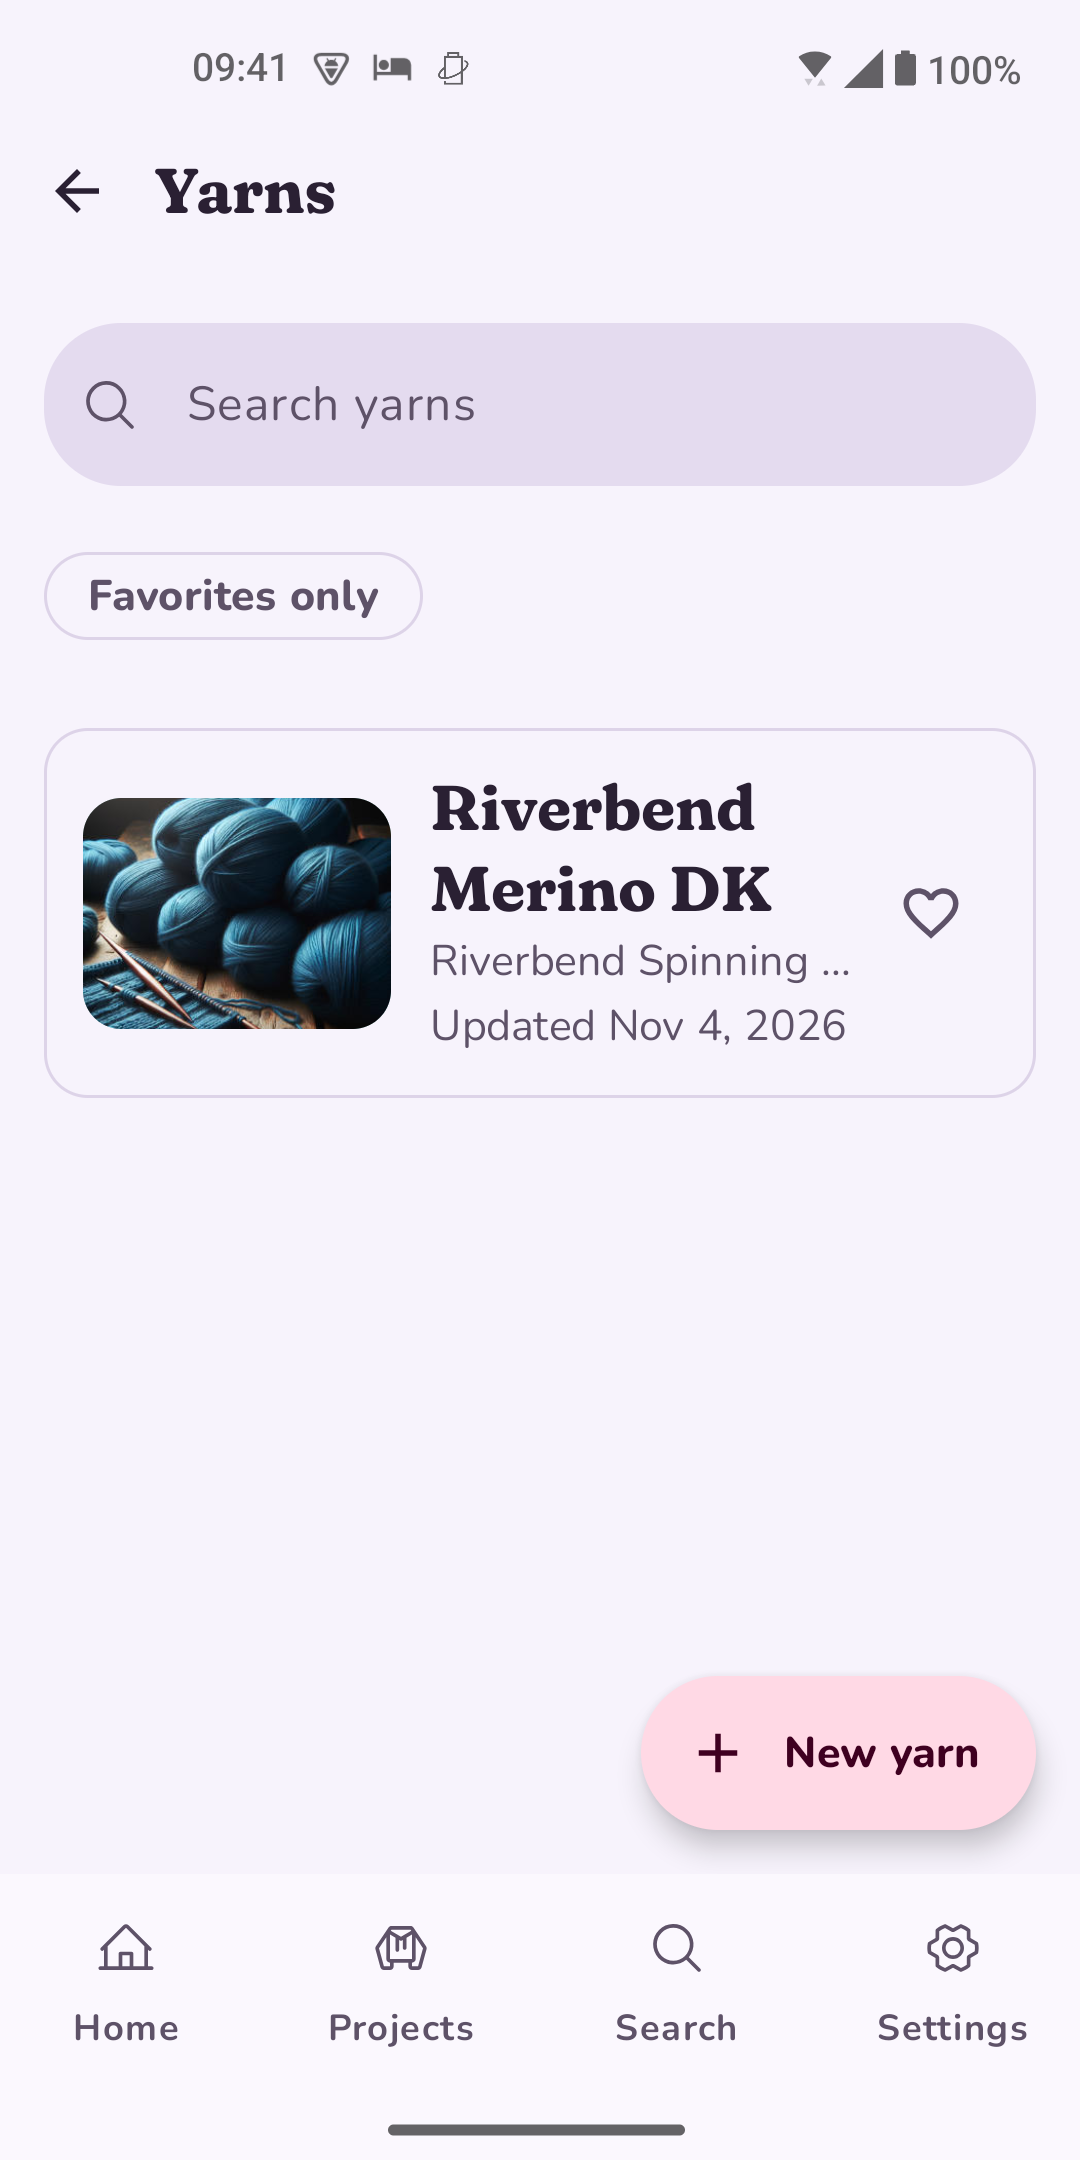
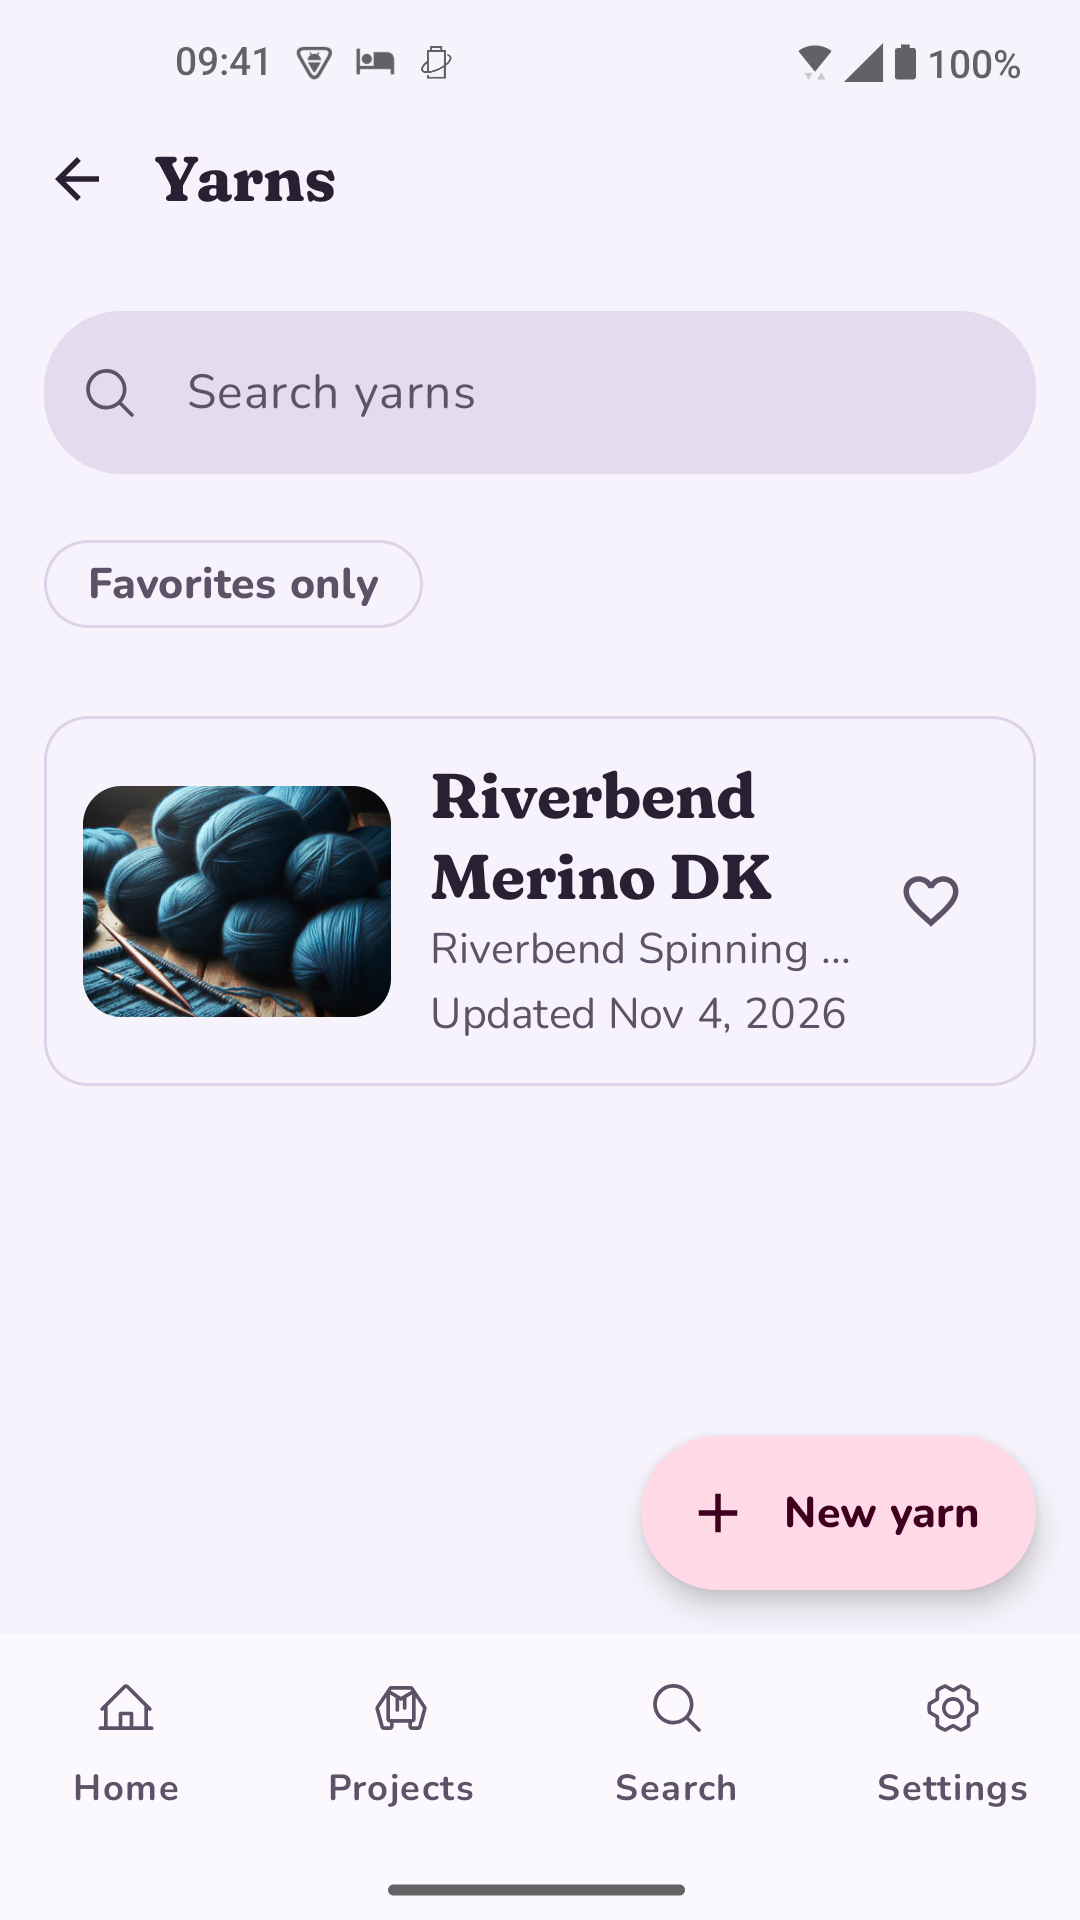
android: phone screenshots at 9:16 and a longer Home settle
Play's phone bucket wants 9:16, so recapture the phone screenshots at 1080x1920. Give Home
more time to finish its first sync before the capture.

Claude-Session: https://claude.ai/code/session_01UvhFjY92vVFoWCsYNrC5fd

diff --git a/android/app/src/androidTest/kotlin/blue/anika/wolle/screenshots/StricknaniScreenshotTest.kt b/android/app/src/androidTest/kotlin/blue/anika/wolle/screenshots/StricknaniScreenshotTest.kt
@@ -68,7 +68,7 @@ class StricknaniScreenshotTest {
         // The first sync fills Home asynchronously; wait for the Continue card, then let the
         // greeting and the activity feed settle.
         composeRule.waitUntil(180_000) { hasTag("home-continue-card") }
-        Thread.sleep(8_000)
+        Thread.sleep(15_000)
         capture("home")
 
         // Recent activity sits further down Home.
